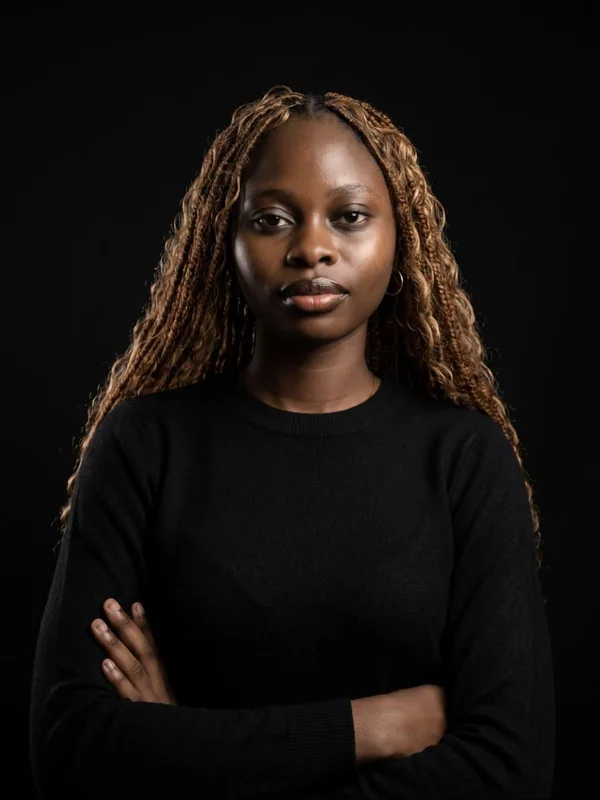
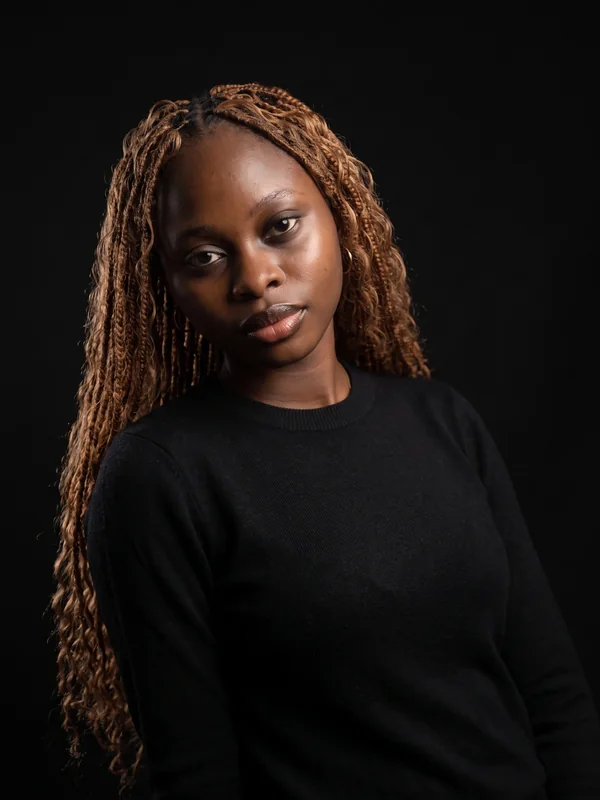
Add Simi Lawal; use Doyin's leaning portrait
Simi Lawal joins as Brand Management Executive with an AI placeholder
portrait in the studio style. Oluwadoyinsola's portrait is replaced with
the leaning version Daniel selected.

Claude-Session: https://claude.ai/code/session_01PD13dC5JisTetnQGTVHtEV

diff --git a/public/index.html b/public/index.html
@@ -2531,6 +2531,7 @@ const TEAM = [
   { d: 'client', n: 'Mmesoma Obikobe', r: 'Brand Manager' },
   { d: 'content', n: 'Wuraola Bamidele', r: 'Content Creator' },
   { d: 'content', n: 'Jemima Adedeji', r: 'Community Manager' },
+  { d: 'client', n: 'Simi Lawal', r: 'Brand Management Executive' },
   { d: 'studio', n: 'Oluwadoyinsola Iyiola', r: 'Intern' },
   { d: 'studio', n: 'Flora Obigwe', r: 'Intern' }
 ];
@@ -4280,7 +4281,7 @@ const LEAD = ['Ola Olowu', 'Daniel Emeka', 'Aderoju Adeniji'];
 const PEOPLE = LEAD.map(n => TEAM.find(p => p.n === n)).concat(TEAM.filter(p => !LEAD.includes(p.n)).sort((a, b) => a.n.localeCompare(b.n)));
 // one colour per person, each set against Republic blue
 const PAL = { 'Aderoju Adeniji': '#FFB000', 'Caleb Ogiri': '#B6FF3B', 'Daniel Emeka': '#9A4DFF', 'Fredrick Aniekwe': '#00D1B2', 'Jemima Adedeji': '#FF2E88',
-  'Mmesoma Obikobe': '#FF7A00', 'Ola Olowu': '#E8C547', 'Oluwadoyinsola Iyiola': '#3FD0FF', 'Flora Obigwe': '#FF3B3B', 'Wuraola Bamidele': '#2BD46A' };
+  'Mmesoma Obikobe': '#FF7A00', 'Ola Olowu': '#E8C547', 'Oluwadoyinsola Iyiola': '#3FD0FF', 'Flora Obigwe': '#FF3B3B', 'Simi Lawal': '#FF8FC0', 'Wuraola Bamidele': '#2BD46A' };
 const lineup = $('#lineup');
 const LGRP = [['Leadership', 0, LEAD.length], ['The studio', LEAD.length, PEOPLE.length]].map(([k, a, z]) => {
   const g = document.createElement('div'); g.className = 'lgrp'; g.dataset.n = (z - a) * (k === 'Leadership' ? 1.4 : 1); g.style.flexGrow = g.dataset.n;

diff --git a/tests/studio_team_check.py b/tests/studio_team_check.py
@@ -9,7 +9,7 @@ async def run(w,h,tag,mobile):
         print(tag, len(names), names)
         await pg.evaluate("document.querySelector('#lineup').scrollIntoView({block:'center'})"); await pg.wait_for_timeout(1200)
         await pg.screenshot(path=f'shots/{tag}-lineup.png')
-        for s in ('oluwadoyinsola-iyiola','flora-obigwe'):
+        for s in ('oluwadoyinsola-iyiola','simi-lawal'):
             await pg.evaluate(f"location.hash='studio/{s}'"); await pg.wait_for_timeout(2600)
             await pg.screenshot(path=f'shots/{tag}-{s}.png')
         print(tag, '\n'.join(errs) or 'no errors'); await b.close()
